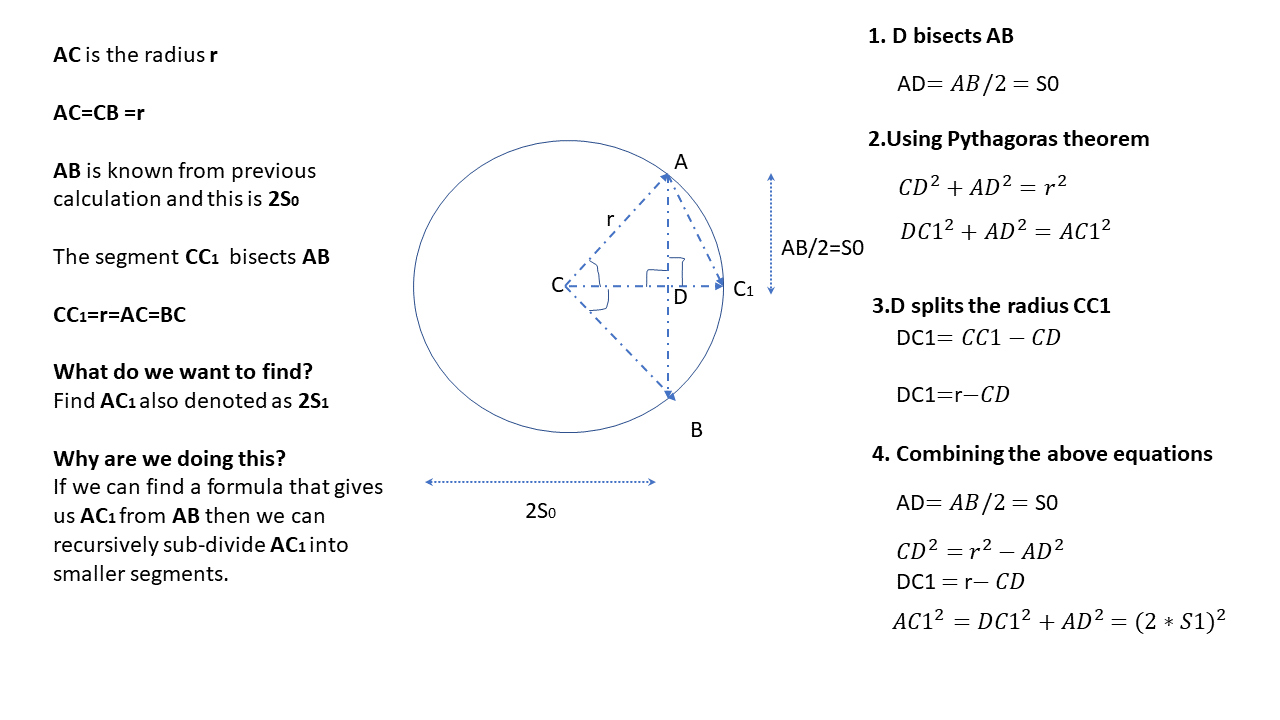
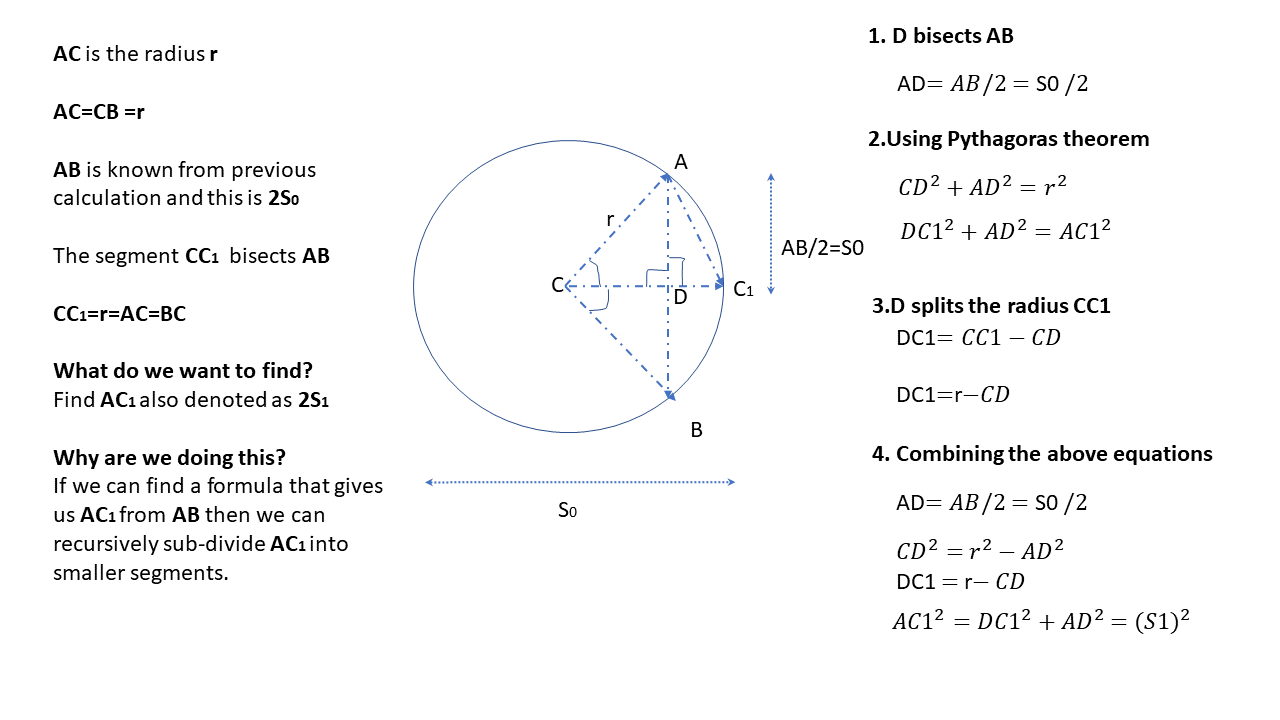
Got python to work

diff --git a/pie-geometrical-method/src/calculate_pie.py b/pie-geometrical-method/src/calculate_pie.py
@@ -1,0 +1,35 @@
+from cmath import pi
+import math
+import sys
+
+def calculate_number_of_polygon_sides(iteration:int):
+    return 4*math.pow(2, iteration)
+
+def calculate_polygon_side(iteration:int):
+    if iteration == 0:
+        return math.sqrt(2)
+    
+    r=1    
+    ad=calculate_polygon_side(iteration=iteration-1)/2
+    cd_square=(r*r) - (ad*ad)
+    dc1=r-math.sqrt(cd_square)
+    s_n =  math.sqrt((dc1*dc1) + (ad*ad))
+    return s_n
+
+def calculate_pie(iterations:int):
+    num_of_sides=calculate_number_of_polygon_sides(iteration=iterations)
+    print(f"Number of sides ={num_of_sides}")
+    polygon_side_length=calculate_polygon_side(iteration=iterations)
+    print(f"Polygon side length ={polygon_side_length}")
+    perimeter=num_of_sides*polygon_side_length
+    print(f"Perimenter ={perimeter}")
+    radius=1
+    pie=perimeter/(2*radius)
+    return pie
+
+
+if __name__ == "__main__":
+    iterations=int(sys.argv[1])
+    print(f"Number of iterations ={iterations}")
+    pie=calculate_pie(iterations=iterations)
+    print(f"Iterations={iterations}     pie={pie}")

diff --git a/pie-geometrical-method/README.MD b/pie-geometrical-method/README.MD
@@ -1,8 +1,8 @@
-# About
-A simple geometrical approach to calculate the value of PIE
+# Calculate Pie using Pythogoras theorem
+In this article I have presented what is possibly one of the oldest and simplest methods to calculate the value of Pie. The principle relies on inscribing a square within a cirlce of radius 1 unit and then doubling the sides in every iteration. The permiter of the polygon inscribed within the circle tends towards **2*PIE*radius**
 
+---
 
-# To be done
 
 # 4 sides
 ![4-sides.png](docs/images/4-sides.png)
@@ -20,8 +20,11 @@ A simple geometrical approach to calculate the value of PIE
 ---
 
 # Perimeter with 4 sides
+Let us try and derive a formula for the permiter of an inscribed polygon. We will use recursion.
 
 ![4-sides-pythagoras.png](docs/images/4-sides-pythagoras.png)
+
+---
 
 # From 4 sides to 8 sides
 
@@ -32,12 +35,18 @@ A simple geometrical approach to calculate the value of PIE
 
 ![4-to-8-sides-calculation.png](docs/images/4-to-8-sides-calculation.png)
 
+---
 
 # Where are we ?
 
-We begin with a **square** with side **2*s0** -->   sub-divide to get an **octagon** with side **2*s1** --> sub-divide to get an **16 sided regular polygon** with side **2*s3**
+We begin with a **square** with side **s0** -->   sub-divide to get an **octagon** with side **s1** --> sub-divide to get an **16 sided regular polygon** with side **s3**
 
 We now have a recursive formula which given the regular polygon length **s(n)** yieds **s(n+1)** 
 
 ![summary-table.png](docs/images/summary-table.png)
 
+---
+
+# Final results
+
+![results-table.png](docs/images/results-table.png)
